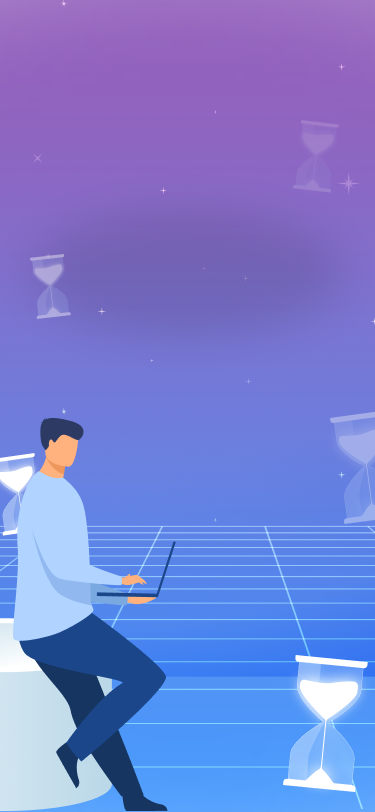
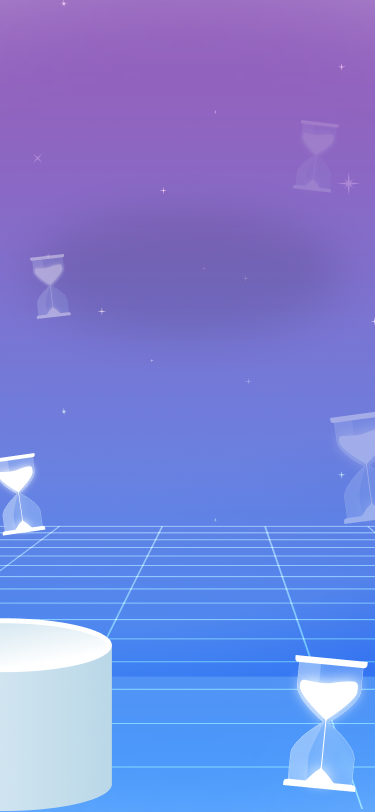
asdasdasd

Changed region(s): [[0.0293, 0.4926, 0.44, 1.0], [0.44, 0.6773, 0.4693, 0.7081]]

diff --git a/src/modules/frame7/index.tsx b/src/modules/frame7/index.tsx
@@ -233,7 +233,9 @@ function Frame7Mobile({ timeline }: { timeline: GSAPTimeline }) {
             doorRotY: Math.PI,
             duration: DOOR_OPEN_DURATION,
             ease: SMOOTH_EASE,
-            onUpdate() { setDoorRotY(-proxyRef.current.doorRotY) },
+            onUpdate() { 
+                setDoorRotY(-proxyRef.current.doorRotY) 
+            },
         }, ">")
 
         timeline.to(proxyRef.current, {
@@ -270,6 +272,12 @@ function Frame7Mobile({ timeline }: { timeline: GSAPTimeline }) {
     const doorLeafH = doorLeafW * (doorLeafTex.height / doorLeafTex.width)
     const doorX = cx - doorLeafW / 2
     const doorLeafY = doorY + (doorH - doorLeafH) / 2
+
+    const personTex = Assets.get(ASSETS.person)
+    const personH = sh * 0.42
+    const personW = personH * (personTex.width / personTex.height)
+    const personX = 30
+    const personY = sh - personH - 40
 
     // Text block from Figma: x=86, y=234 in 375×812 → relative to door
     const youWerentTex = Assets.get(ASSETS.youWerentLost)
@@ -320,7 +328,7 @@ function Frame7Mobile({ timeline }: { timeline: GSAPTimeline }) {
                 anchor={{ x: 1, y: 0.5 }}
                 x={doorX + doorLeafW}
                 y={doorLeafY + doorLeafH / 2}
-                scale={{ x: doorScaleX, y: 1 }}
+                scale={{ x: doorScaleX+0.05, y: 1.03 }}
                 alpha={doorAlpha}
             />
             <pixiSprite
@@ -338,6 +346,14 @@ function Frame7Mobile({ timeline }: { timeline: GSAPTimeline }) {
                 x={jwX}
                 y={jwY}
                 alpha={textAlpha}
+            />
+            <pixiSprite
+                texture={personTex}
+                width={personW}
+                height={personH}
+                x={personX}
+                y={personY}
+                alpha={bgAlpha}
             />
         </pixiContainer>
     )

diff --git a/src/assets/manifest.ts b/src/assets/manifest.ts
@@ -32,6 +32,7 @@ import voiceExp from "./mobile/voice-exp.png"
 import mobileBg71 from "./mobile/bg7-1.png"
 import mobileDoorLeaf from "./mobile/door-leaf.png"
 import mobileDoorPanel from "./mobile/door-panel.png"
+import mobilePerson from "./mobile/person.png"
 
 
 export const ASSETS = {
@@ -60,6 +61,7 @@ export const ASSETS = {
   doorPanel: "doorPanel",
   youWerentLost: "youWerentLost",
   justWaiting: "justWaiting",
+  person: "person",
 } as const
 
 const MOBILE_BREAKPOINT = 768
@@ -114,6 +116,7 @@ export function loadAssets() {
       { alias: ASSETS.doorPanel, src: mobileDoorPanel },
       { alias: ASSETS.youWerentLost, src: youWerentLost },
       { alias: ASSETS.justWaiting, src: justWaiting },
+      { alias: ASSETS.person, src: mobilePerson },
     ])
 
     const bundle = isMobile() ? "mobile" : "desktop"
